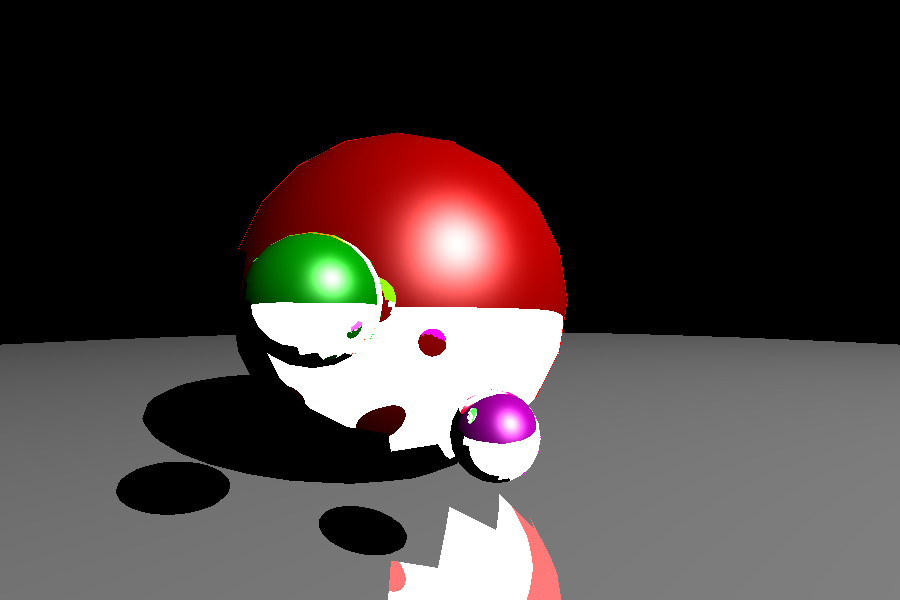
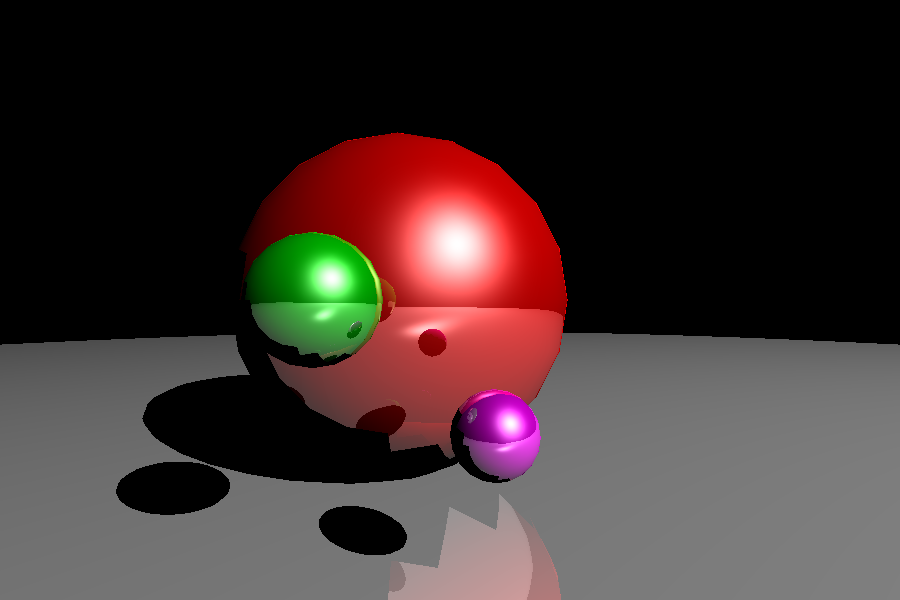
Small correction

Changed region(s): [[0.28, 0.42, 0.6222, 0.81], [0.4044, 0.84, 0.6222, 1.0], [0.3733, 0.39, 0.4044, 0.42]]

diff --git a/tools/raytracing.py b/tools/raytracing.py
@@ -112,7 +112,7 @@ class Data:
             pos = glm.vec3(actor.GetPosition())
             if isinstance(obj.obj, vtk.vtkPolyData):
                 polydata = obj.obj
-                normals = obj.obj.GetCellData().GetNormals()
+                normals = obj.obj.GetPointData().GetNormals()
             else:
                 polydata = obj.obj.GetOutput()
                 vtknormal = vtk.vtkPolyDataNormals()
@@ -133,7 +133,7 @@ class Data:
                     obj.color * obj.diffuse,
                     glm.vec3(1, 1, 1),
                     obj.shininess,
-                    obj.shininess,
+                    obj.reflection,
                     pos,
                     glm.vec3(actor.GetOrientation()),
                 )

diff --git a/tools/generic_obj.py b/tools/generic_obj.py
@@ -72,7 +72,7 @@ def generate_plane(width, z):
     vtknormals.SetTuple(2, [0, 1, 0])
     vtknormals.SetTuple(3, [0, 1, 0])
 
-    polygonPolyData.GetCellData().SetNormals(vtknormals)
+    polygonPolyData.GetPointData().SetNormals(vtknormals)
 
     obbtree = vtk.vtkOBBTree()
     obbtree.SetDataSet(polygonPolyData)

diff --git a/README.md b/README.md
@@ -2,3 +2,8 @@
 VTK Raytracing
 
 ![](./poutine.png)
+
+
+# Theory
+
+![](./rayray.png)
